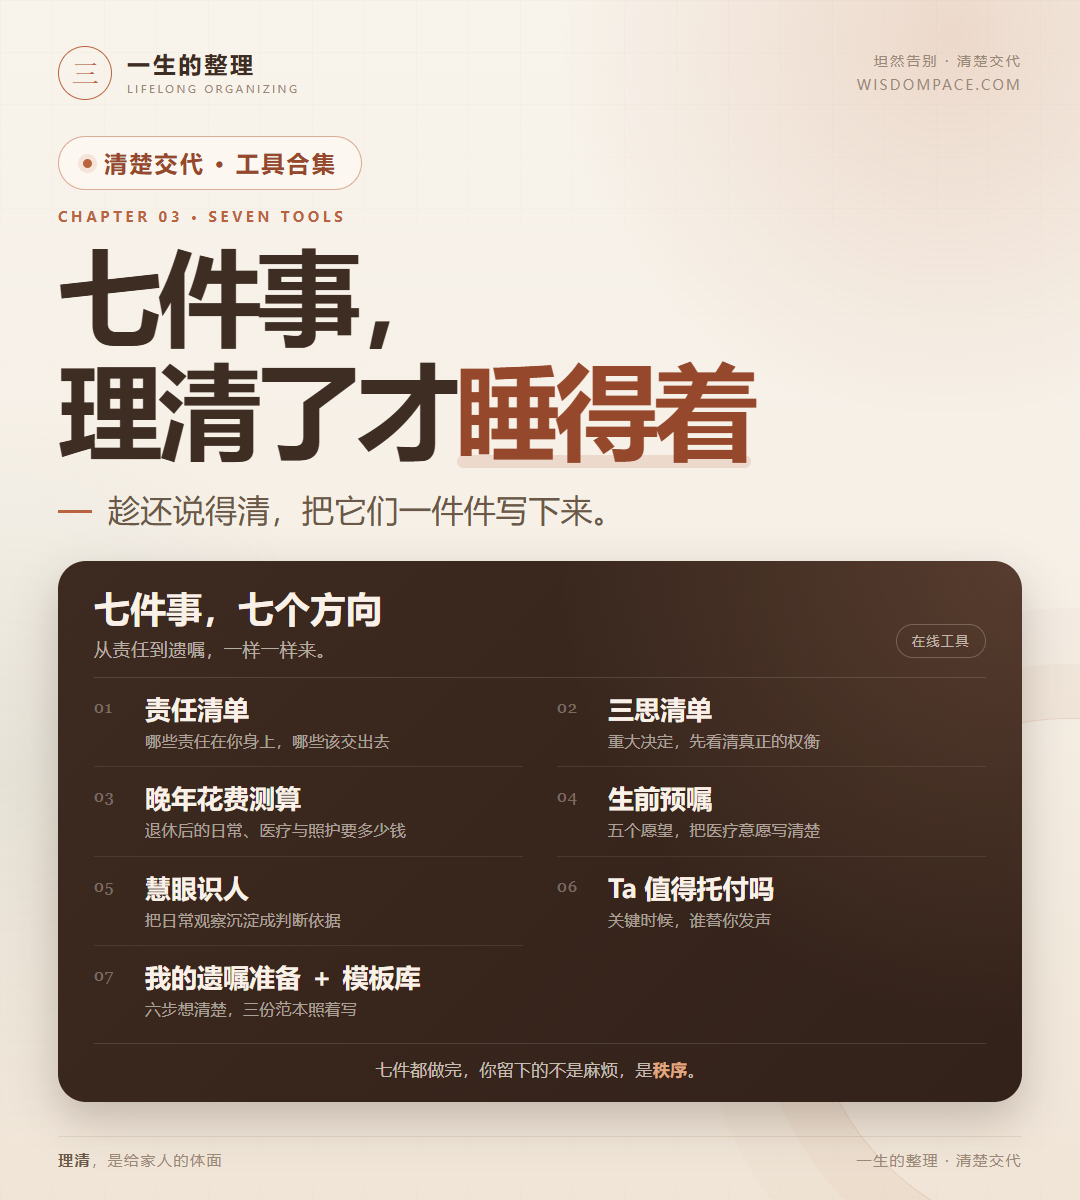
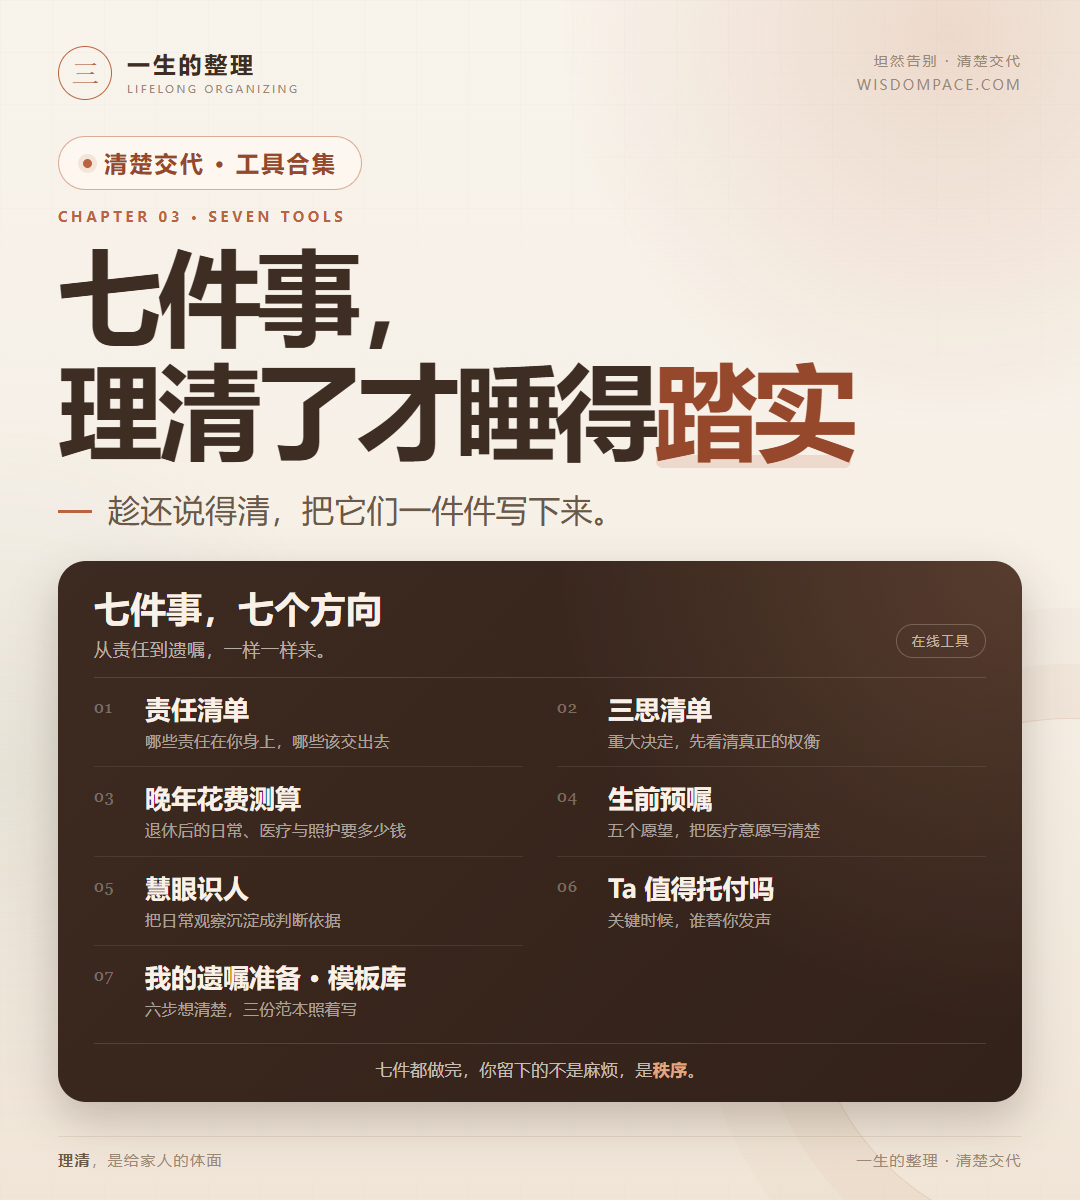
posters: 第三篇封面主标题定为「理清了才睡得踏实」

Changed region(s): [[0.4278, 0.2775, 0.7944, 0.4008], [0.275, 0.8017, 0.3972, 0.8325]]

diff --git a/posters/chapter3-cover.html b/posters/chapter3-cover.html
@@ -302,7 +302,7 @@
     <section class="hero">
       <div class="tool-chip"><span class="dot"></span>清楚交代 · 工具合集</div>
       <p class="kicker">CHAPTER 03 · SEVEN TOOLS</p>
-      <h1>七件事，<br />理清了才<span class="accent">睡得着</span></h1>
+      <h1>七件事，<br />理清了才睡得<span class="accent">踏实</span></h1>
       <p class="slogan">趁还说得清，把它们一件件写下来。</p>
     </section>
 
@@ -360,7 +360,7 @@
         <div class="stage wide">
           <div class="stage-index">07</div>
           <div>
-            <div class="stage-title">我的遗嘱准备 ＋ 模板库</div>
+            <div class="stage-title">我的遗嘱准备 · 模板库</div>
             <div class="stage-desc">六步想清楚，三份范本照着写</div>
           </div>
         </div>
